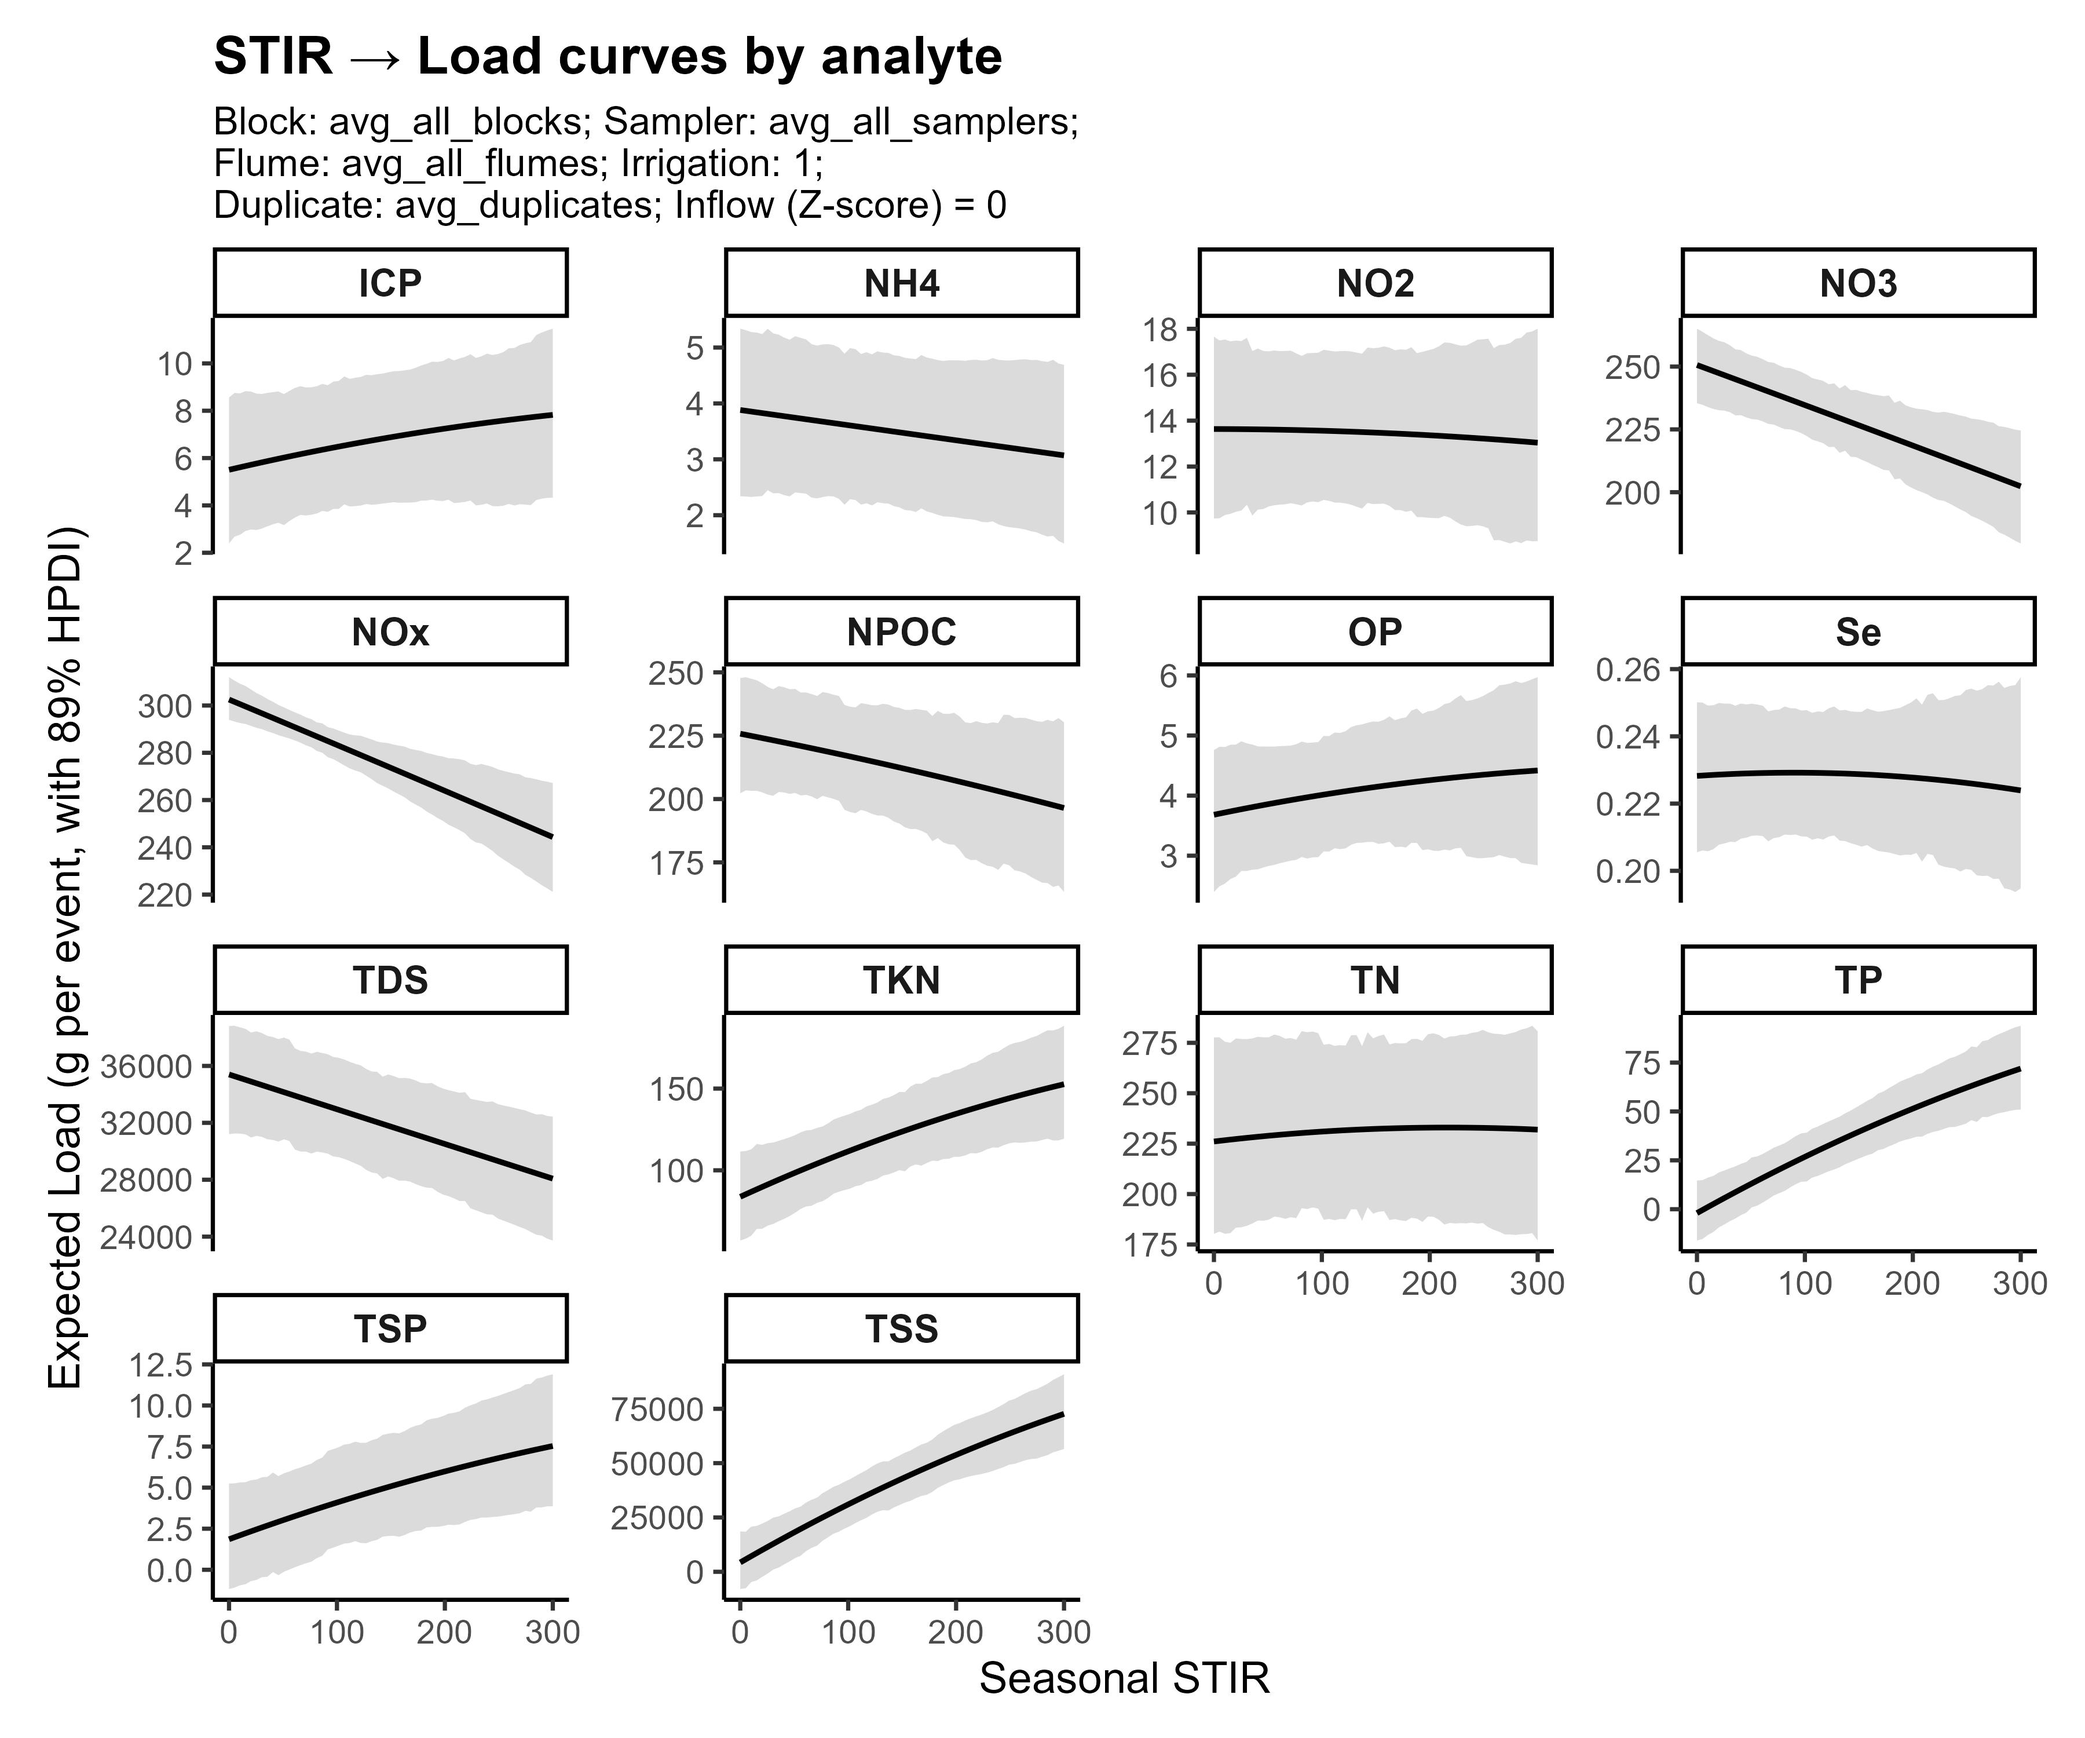
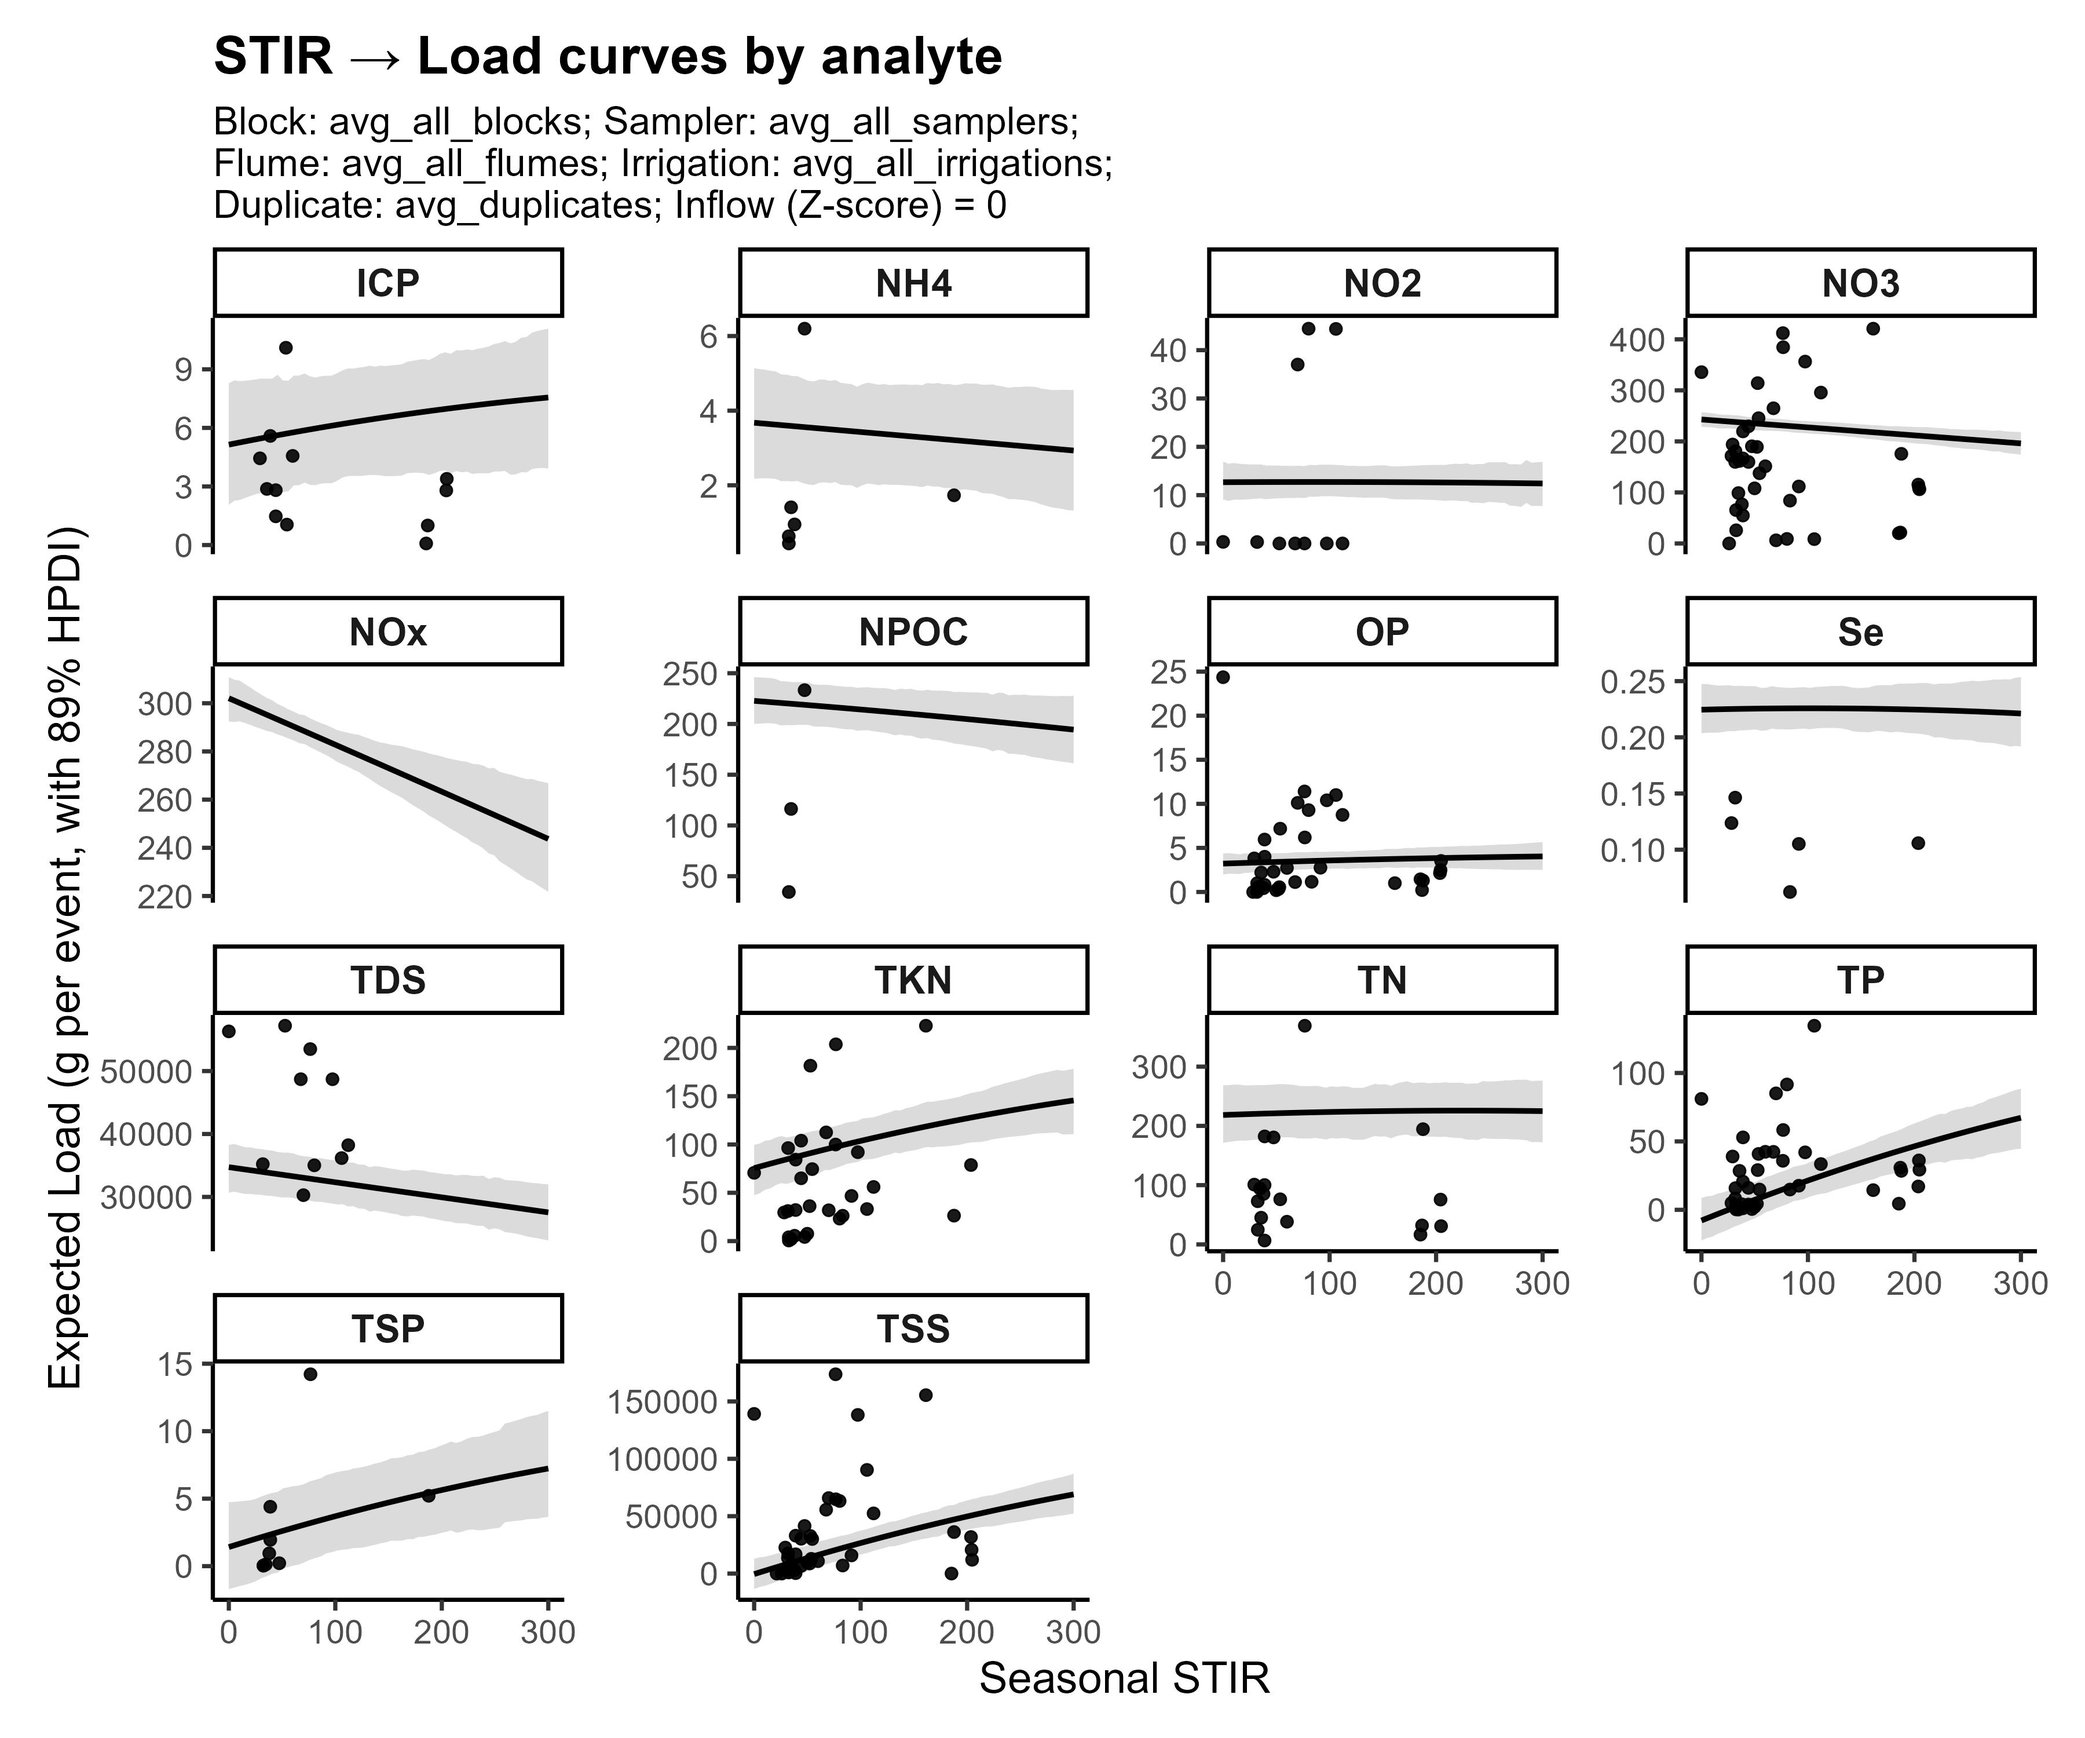
updated load graph with obs
now we have a full generative load graphing

diff --git a/docs/bayes-model_versions.md b/docs/bayes-model_versions.md
@@ -6,8 +6,20 @@
 This file tracks the structure and development stage of all Bayesian model families used in the STIR–WQ analysis workflow. Each model family has its own Rmd file and evolves independently. This table format is designed for fast updates, minimal text, and clear tracking of model features over time.
 
 ---
+## Load Models (Vol + Concentration) - IN PROGRESS
 
-## Concentration Models
+**File:** `code/stir-bayes-load1p0.Rmd`
+**Current Version:** **1.1**
+
+| Version | File    | Description of Model Features                                                                                                             | Missing Features / Planned Additions                                                                                                                |
+| ------- | ------- | ----------------------------------------------------------------------------------------------------------------------------------------- | --------------------------------------------------------------------------------------------------------------------------------------------------- |
+| 1.0     | load1p0 | Posterior load computation using posterior C and posterior V, z-score back-transformation, per-analyte load distributions, HPDI summaries | Visualization functions, alternative unit scaling, integration of concentration censoring, inclusion of treatment or year pooling in load summaries |
+| 1.1     | load1p1 | Same as 1.0 but now includes outflow volume model integrated into concentration model for more accurate load estimates. Imputes missing inflow concentrations. | Create non-centered version. Consider Gaussian processes by incorporating year and irrigation number |
+| 1.2     | load1p2 | Same as 1.1 but uses MVN priors and non-centered parameterization| Consider Gaussian processes by incorporating year and/or irrigation number |
+
+---
+
+## Concentration Models - DONE
 
 **File:** `code/stir-bayes-conc1p0.Rmd`
 **Current Version:** **FINAL 1.1**
@@ -19,7 +31,7 @@ This file tracks the structure and development stage of all Bayesian model famil
 
 ---
 
-## Volume Models
+## Volume Models - DONE
 
 **File:** `code/stir-bayes-vold1p0.Rmd`
 **Current Version:** **FINAL 1.0**
@@ -27,18 +39,6 @@ This file tracks the structure and development stage of all Bayesian model famil
 | Version | File     | Description of Model Features                                                                                                            | Missing Features / Planned Additions                                                                                                                    |
 | ------- | -------- | ---------------------------------------------------------------------------------------------------------------------------------------- | ------------------------------------------------------------------------------------------------------------------------------------------------------- |
 | 1.0     | embedded | Simple linear regression of standardized volume on seasonal STIR, missing-data imputation enabled, posterior slope density visualization | Treatment-level or year-level pooling, residual correlation modeling, alternative predictors (e.g., cumulative STIR), integration into full joint model |
-
----
-
-## Load Models
-
-**File:** `code/stir-bayes-load1p0.Rmd`
-**Current Version:** **1.1**
-
-| Version | File    | Description of Model Features                                                                                                             | Missing Features / Planned Additions                                                                                                                |
-| ------- | ------- | ----------------------------------------------------------------------------------------------------------------------------------------- | --------------------------------------------------------------------------------------------------------------------------------------------------- |
-| 1.0     | load1p0 | Posterior load computation using posterior C and posterior V, z-score back-transformation, per-analyte load distributions, HPDI summaries | Visualization functions, alternative unit scaling, integration of concentration censoring, inclusion of treatment or year pooling in load summaries |
-| 1.1     | load1p1 | Same as 1.0 but now includes outflow volume model integrated into concentration model for more accurate load estimates. Imputes missing inflow concentrations. | Create non-centered version. Consider Gaussian processes by incorporating year and irrigation number |
 
 ---
 
